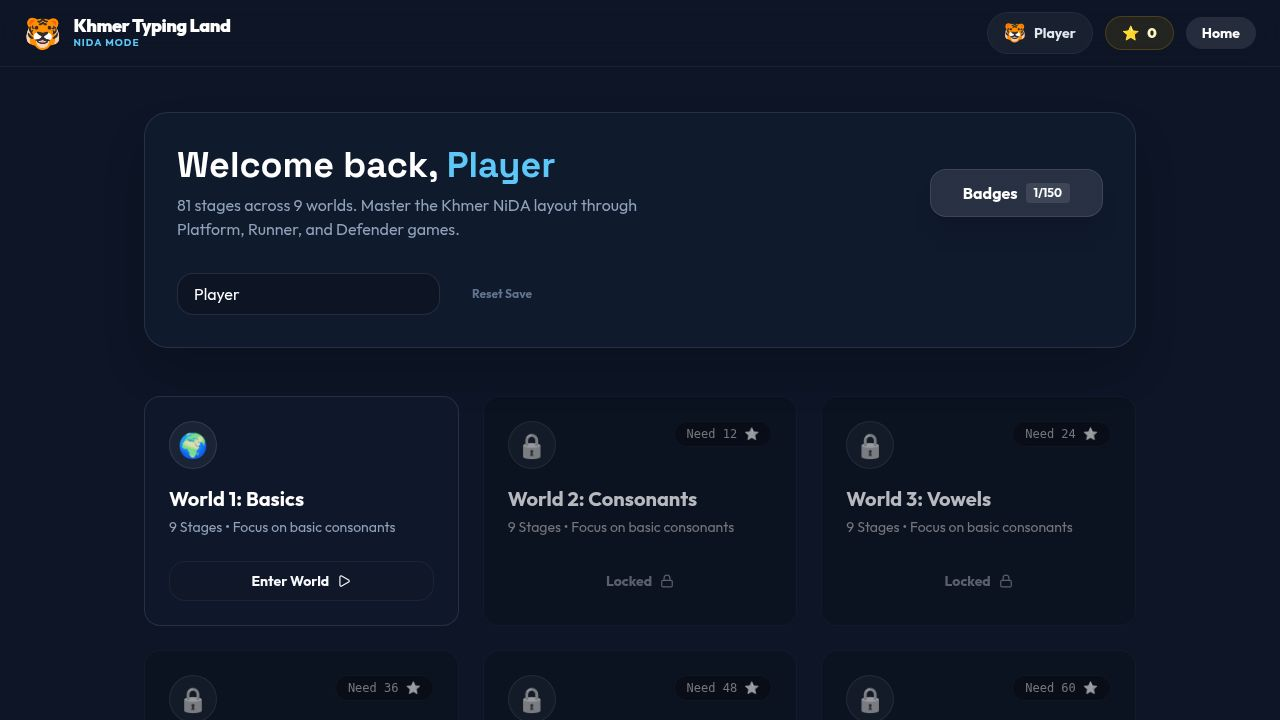
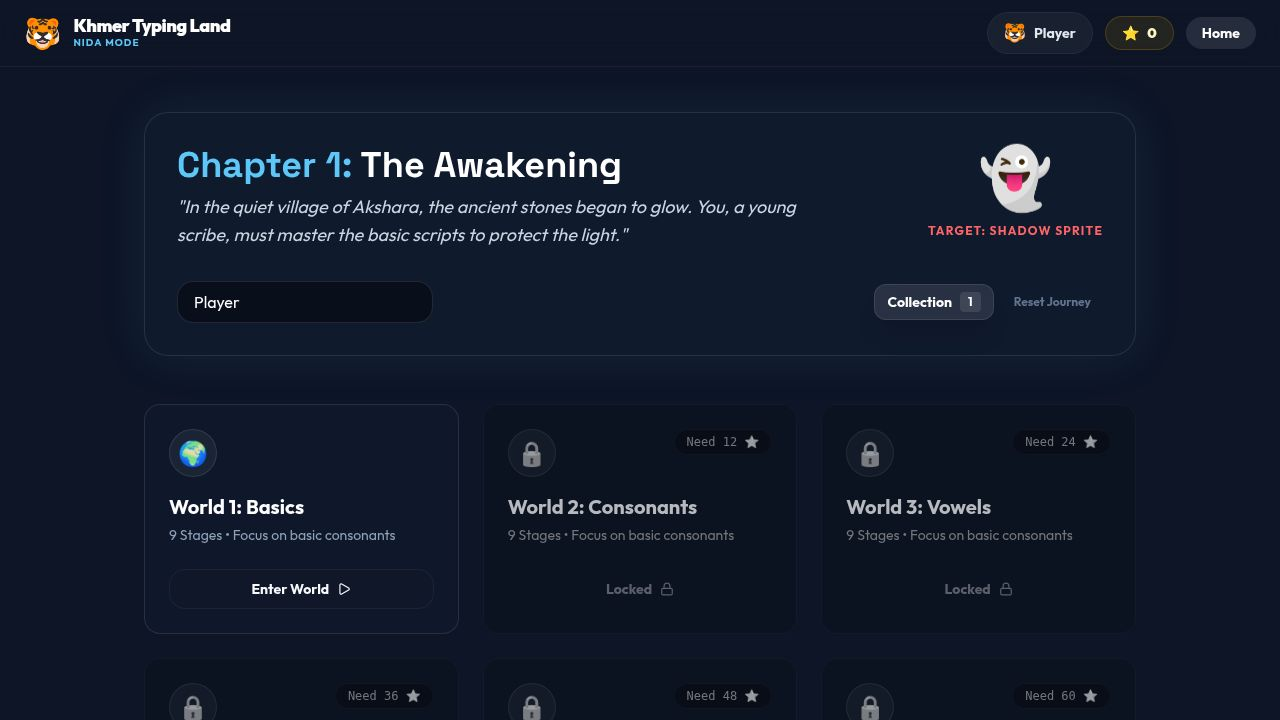
Introduce a story-based adventure mode to guide players through narrative chapters
Add a new story-based adventure mode with narrative chapters, monsters, and random events.

Replit-Commit-Author: Agent
Replit-Commit-Session-Id: f99aec6e-cbb2-4656-ade2-2aaaff45fb00
Replit-Commit-Checkpoint-Type: full_checkpoint
Replit-Commit-Event-Id: 839009ac-e84e-4d3d-a914-88065e1ce229
Replit-Commit-Screenshot-Url: https://storage.googleapis.com/screenshot-production-us-central1/114f6e84-a1c7-4399-8666-2ebb4a394b0b/f99aec6e-cbb2-4656-ade2-2aaaff45fb00/1LLVYzc
Replit-Helium-Checkpoint-Created: true

diff --git a/client/src/lib/story.ts b/client/src/lib/story.ts
@@ -1,0 +1,118 @@
+
+export interface StoryChapter {
+  id: string;
+  worldId: string;
+  title: string;
+  intro: string;
+  outro: string;
+  monsterName: string;
+  monsterEmoji: string;
+}
+
+export const STORY_CHAPTERS: StoryChapter[] = [
+  {
+    id: "ch1",
+    worldId: "w1",
+    title: "The Awakening",
+    intro: "In the quiet village of Akshara, the ancient stones began to glow. You, a young scribe, must master the basic scripts to protect the light.",
+    outro: "The first scripts are mastered. The village is safe, but a shadow moves in the distance.",
+    monsterName: "Shadow Sprite",
+    monsterEmoji: "👻"
+  },
+  {
+    id: "ch2",
+    worldId: "w2",
+    title: "The Whispering Woods",
+    intro: "The path leads into the Whispering Woods. To navigate the thicket, you must call upon the strength of the full consonants.",
+    outro: "The woods part ways. You've earned the respect of the forest spirits.",
+    monsterName: "Thorn Golem",
+    monsterEmoji: "🌵"
+  },
+  {
+    id: "ch3",
+    worldId: "w3",
+    title: "The Crystal Lake",
+    intro: "Beside the Crystal Lake, the air is filled with floating vowels. Type with precision to keep your footing on the slippery stones.",
+    outro: "The lake reflects your growing power. The water spirits grant you their blessing.",
+    monsterName: "Mist Kraken",
+    monsterEmoji: "🐙"
+  },
+  {
+    id: "ch4",
+    worldId: "w4",
+    title: "The Mountain of Marks",
+    intro: "High above, the Mountain of Marks is shrouded in storm. Only by mastering the accents can you weather the gale.",
+    outro: "The storm breaks. From the summit, you see the entire kingdom of Khemara.",
+    monsterName: "Storm Eagle",
+    monsterEmoji: "🦅"
+  },
+  {
+    id: "ch5",
+    worldId: "w5",
+    title: "The Ancient Library",
+    intro: "Deep within the Ancient Library, complex combos hold the keys to forgotten lore. Decipher them to unlock the gate.",
+    outro: "The secrets of the ancestors are yours. You are no longer just a scribe, but a Guardian.",
+    monsterName: "Ink Stalker",
+    monsterEmoji: "🐈⬛"
+  },
+  {
+    id: "ch6",
+    worldId: "w6",
+    title: "The Desert of Chaos",
+    intro: "The scripts are mixing in the heat of the Desert of Chaos. Stay focused as the sands shift beneath you.",
+    outro: "The dunes settle. You have found order in the midst of chaos.",
+    monsterName: "Sand Worm",
+    monsterEmoji: "🪱"
+  },
+  {
+    id: "ch7",
+    worldId: "w7",
+    title: "The Rhythm Falls",
+    intro: "Listen to the beat of the Rhythm Falls. Your typing must match the pulse of the earth itself.",
+    outro: "The music of the falls fills your soul. You have found your flow.",
+    monsterName: "Echo Siren",
+    monsterEmoji: "🧜"
+  },
+  {
+    id: "ch8",
+    worldId: "w8",
+    title: "The Digital Forge",
+    intro: "Numbers and symbols fly in the Digital Forge. Temper your skills in the heat of the mechanical heart.",
+    outro: "The forge cools. You have crafted a weapon of pure knowledge.",
+    monsterName: "Iron Titan",
+    monsterEmoji: "🤖"
+  },
+  {
+    id: "ch9",
+    worldId: "w9",
+    title: "The Void of Mastery",
+    intro: "You have reached the Void. Here, everything you've learned will be tested. Become the Master of Akshara.",
+    outro: "The Void is filled with light. You are the ultimate Master Scribe. The kingdom is saved.",
+    monsterName: "The Silence",
+    monsterEmoji: "🌑"
+  }
+];
+
+export const RANDOM_EVENTS = [
+  {
+    id: "e1",
+    name: "Golden Snitch",
+    description: "A rare word appeared! Type it fast for double points!",
+    reward: "Bonus Stars",
+    chance: 0.1
+  },
+  {
+    id: "e2",
+    name: "Scribe's Fever",
+    description: "Typing speed increased for 10 seconds!",
+    reward: "Speed Boost",
+    chance: 0.05
+  },
+  {
+    id: "e3",
+    name: "Hidden Scroll",
+    description: "You found an ancient secret!",
+    reward: "Rare Badge",
+    chance: 0.02
+  }
+];

diff --git a/client/src/pages/Home.tsx b/client/src/pages/Home.tsx
@@ -7,6 +7,8 @@ import { Button } from '@/components/ui/button';
 import { Lock, Unlock, Play } from 'lucide-react';
 import { HUD } from '@/components/HUD';
 
+import { STORY_CHAPTERS } from '@/lib/story';
+
 const WORLDS = buildWorlds();
 
 export const Home: React.FC = () => {
@@ -19,26 +21,22 @@ export const Home: React.FC = () => {
       
       <div className="container mx-auto px-4 mt-8 max-w-5xl">
         {/* Welcome Card */}
-        <div className="glass-panel p-8 rounded-3xl mb-12">
+        <div className="glass-panel p-8 rounded-3xl mb-12 border-primary/20 bg-primary/5">
           <div className="flex flex-col md:flex-row justify-between items-start md:items-center gap-6">
             <div>
               <h1 className="text-4xl font-black text-white mb-2 font-display">
-                Welcome back, <span className="text-primary">{profile.name}</span>
+                <span className="text-primary">Chapter {Math.min(9, Math.floor(totalStars / 12) + 1)}:</span> {STORY_CHAPTERS[Math.min(8, Math.floor(totalStars / 12))]?.title}
               </h1>
-              <p className="text-slate-400 max-w-lg">
-                81 stages across 9 worlds. Master the Khmer NiDA layout through Platform, Runner, and Defender games.
+              <p className="text-slate-300 max-w-2xl text-lg italic">
+                "{STORY_CHAPTERS[Math.min(8, Math.floor(totalStars / 12))]?.intro}"
               </p>
             </div>
             
-            <div className="flex gap-4">
-              <Link href="/badges">
-                <Button variant="glass" size="lg" className="gap-2">
-                  <span>Badges</span>
-                  <span className="bg-white/10 px-2 py-0.5 rounded text-xs">
-                    {badgesOwned.length}/150
-                  </span>
-                </Button>
-              </Link>
+            <div className="flex flex-col items-center gap-2">
+              <div className="text-6xl animate-bounce">
+                {STORY_CHAPTERS[Math.min(8, Math.floor(totalStars / 12))]?.monsterEmoji}
+              </div>
+              <div className="text-xs font-bold text-red-400 uppercase tracking-widest">Target: {STORY_CHAPTERS[Math.min(8, Math.floor(totalStars / 12))]?.monsterName}</div>
             </div>
           </div>
           
@@ -46,14 +44,24 @@ export const Home: React.FC = () => {
              <input 
                value={profile.name}
                onChange={(e) => setProfileName(e.target.value)}
-               className="bg-black/20 border border-white/10 rounded-xl px-4 py-2 text-white focus:outline-none focus:ring-2 focus:ring-primary/50"
-               placeholder="Enter your name..."
+               className="bg-black/40 border border-white/10 rounded-xl px-4 py-2 text-white focus:outline-none focus:ring-2 focus:ring-primary/50 w-64"
+               placeholder="Scribe Name..."
              />
-             <Button variant="ghost" className="text-xs text-slate-500" onClick={() => {
-               if(confirm("Reset all progress?")) resetProgress();
-             }}>
-               Reset Save
-             </Button>
+             <div className="flex gap-2 ml-auto">
+              <Link href="/badges">
+                <Button variant="glass" size="sm" className="gap-2">
+                  <span>Collection</span>
+                  <span className="bg-white/10 px-2 py-0.5 rounded text-xs">
+                    {badgesOwned.length}
+                  </span>
+                </Button>
+              </Link>
+              <Button variant="ghost" size="sm" className="text-xs text-slate-500" onClick={() => {
+                if(confirm("Erase your legend?")) resetProgress();
+              }}>
+                Reset Journey
+              </Button>
+             </div>
           </div>
         </div>
 

diff --git a/client/src/pages/Play.tsx b/client/src/pages/Play.tsx
@@ -11,29 +11,43 @@ import { GameDefender } from '@/components/game/GameDefender';
 import { makeBadges } from '@/lib/badges';
 import { cn } from '@/lib/utils';
 
+import { STORY_CHAPTERS, RANDOM_EVENTS } from '@/lib/story';
+
 const WORLDS = buildWorlds();
 const ALL_BADGES = makeBadges();
 
-type GamePhase = "platform" | "runner" | "defender" | "result";
+type GamePhase = "intro" | "platform" | "runner" | "defender" | "result";
 
 export const Play: React.FC = () => {
   const [, params] = useRoute("/play/:wid/:sid");
   const [, setLocation] = useLocation();
   const { recordStageResult, selectedBadgeId } = useGameStore();
 
-  const [phase, setPhase] = useState<GamePhase>("platform");
+  const [phase, setPhase] = useState<GamePhase>("intro");
   const [stats, setStats] = useState({ hits: 0, miss: 0 });
   const [newBadges, setNewBadges] = useState<string[]>([]);
+  const [activeEvent, setActiveEvent] = useState<typeof RANDOM_EVENTS[0] | null>(null);
   
   const worldId = params?.wid;
   const stageId = params?.sid;
   
   const world = WORLDS.find(w => w.id === worldId);
   const stage = world?.stages.find(s => s.id === stageId);
+  const chapter = STORY_CHAPTERS.find(c => c.worldId === worldId);
   
   // Find mascot icon
   const badge = ALL_BADGES.find(b => b.id === selectedBadgeId) || ALL_BADGES[0];
   const mascot = badge.icon;
+
+  useEffect(() => {
+    // Random Event Check
+    if (phase === "intro") {
+      const event = RANDOM_EVENTS.find(e => Math.random() < e.chance);
+      if (event) {
+        setActiveEvent(event);
+      }
+    }
+  }, [phase]);
 
   if (!world || !stage) return <div>Stage not found</div>;
 
@@ -77,7 +91,37 @@ export const Play: React.FC = () => {
         </div>
       )}
 
-      <div className="container mx-auto px-4 flex justify-center">
+      <div className="container mx-auto px-4 flex flex-col items-center justify-center min-h-[60vh]">
+        {phase === "intro" && (
+          <div className="glass-panel p-10 rounded-3xl text-center max-w-2xl w-full animate-in fade-in zoom-in duration-500 border-primary/30 shadow-[0_0_50px_rgba(59,130,246,0.2)]">
+            <div className="text-sm font-bold text-primary uppercase tracking-[0.3em] mb-4">Quest Objective</div>
+            <h1 className="text-4xl font-black text-white mb-6">{stage.name}</h1>
+            
+            <div className="flex items-center justify-center gap-8 mb-8">
+              <div className="text-6xl animate-bounce">{mascot}</div>
+              <div className="text-2xl text-slate-500 font-bold">VS</div>
+              <div className="text-6xl animate-pulse">{chapter?.monsterEmoji}</div>
+            </div>
+
+            <p className="text-slate-300 italic text-xl mb-10 leading-relaxed">
+              "To defeat the {chapter?.monsterName}, you must master these scripts: <span className="text-white font-bold not-italic">{stage.pool.join(' ')}</span>"
+            </p>
+
+            {activeEvent && (
+              <div className="mb-8 p-4 bg-yellow-400/10 border border-yellow-400/30 rounded-2xl animate-pulse">
+                <div className="text-yellow-400 font-bold flex items-center justify-center gap-2">
+                  ✨ Random Event: {activeEvent.name}
+                </div>
+                <div className="text-xs text-yellow-200/70">{activeEvent.description}</div>
+              </div>
+            )}
+
+            <Button size="lg" className="px-12 py-8 text-2xl font-black bg-primary hover:bg-primary/80 text-primary-foreground rounded-2xl shadow-xl shadow-primary/20" onClick={() => setPhase("platform")}>
+              BEGIN QUEST
+            </Button>
+          </div>
+        )}
+
         {phase === "platform" && (
           <GamePlatform 
             pool={stage.pool} 

diff --git a/client/src/pages/StageSelect.tsx b/client/src/pages/StageSelect.tsx
@@ -7,30 +7,42 @@ import { ArrowLeft, Star } from 'lucide-react';
 import { HUD } from '@/components/HUD';
 import { cn } from '@/lib/utils';
 
+import { STORY_CHAPTERS } from '@/lib/story';
+
 const WORLDS = buildWorlds();
 
 export const StageSelect: React.FC = () => {
   const [, params] = useRoute("/world/:id");
-  const { progress } = useGameStore();
+  const { progress, getTotalStars } = useGameStore();
   
   const world = WORLDS.find(w => w.id === params?.id);
+  const chapter = STORY_CHAPTERS.find(c => c.worldId === world?.id);
   
   if (!world) return <div className="text-white p-20">World not found</div>;
 
   return (
-    <div className="min-h-screen bg-background pb-20 pt-20">
+    <div className="min-h-screen bg-background pb-20 pt-20" data-world={world.id}>
       <HUD />
 
       <div className="container mx-auto px-4 mt-8 max-w-5xl">
-        <div className="flex items-center gap-4 mb-8">
+        <div className="flex flex-col md:flex-row md:items-center gap-6 mb-12 glass-panel p-8 rounded-3xl border-primary/20">
           <Link href="/">
-            <Button variant="secondary" size="icon" className="rounded-full">
+            <Button variant="secondary" size="icon" className="rounded-full shrink-0">
               <ArrowLeft size={18} />
             </Button>
           </Link>
-          <div>
-            <h1 className="text-3xl font-black text-white">{world.name}</h1>
-            <p className="text-slate-400">Select a stage to begin training</p>
+          <div className="flex-1">
+            <div className="flex items-center gap-3 mb-1">
+              <h1 className="text-3xl font-black text-white">{world.name}</h1>
+              <span className="px-3 py-1 rounded-full bg-primary/20 text-primary text-xs font-bold uppercase tracking-widest">Chapter {world.id.replace('w','')}</span>
+            </div>
+            <h2 className="text-xl font-bold text-primary mb-3">Quest: {chapter?.title}</h2>
+            <p className="text-slate-300 italic text-lg leading-relaxed">"{chapter?.intro}"</p>
+          </div>
+          <div className="flex flex-col items-center justify-center p-6 bg-black/40 rounded-2xl border border-white/5 min-w-[150px]">
+            <div className="text-5xl mb-2 animate-pulse">{chapter?.monsterEmoji}</div>
+            <div className="text-[10px] font-black uppercase text-red-500 tracking-tighter">Bounty Target</div>
+            <div className="text-sm font-bold text-white">{chapter?.monsterName}</div>
           </div>
         </div>
 
